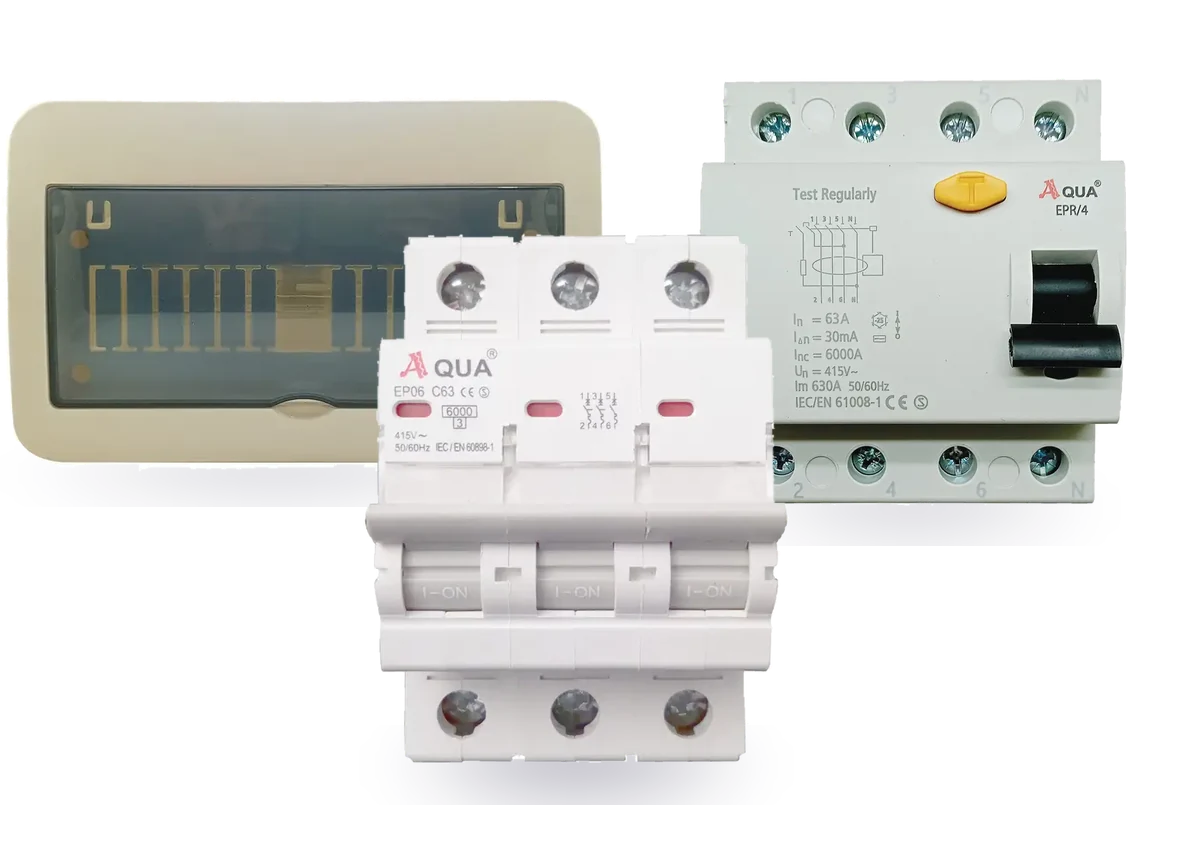
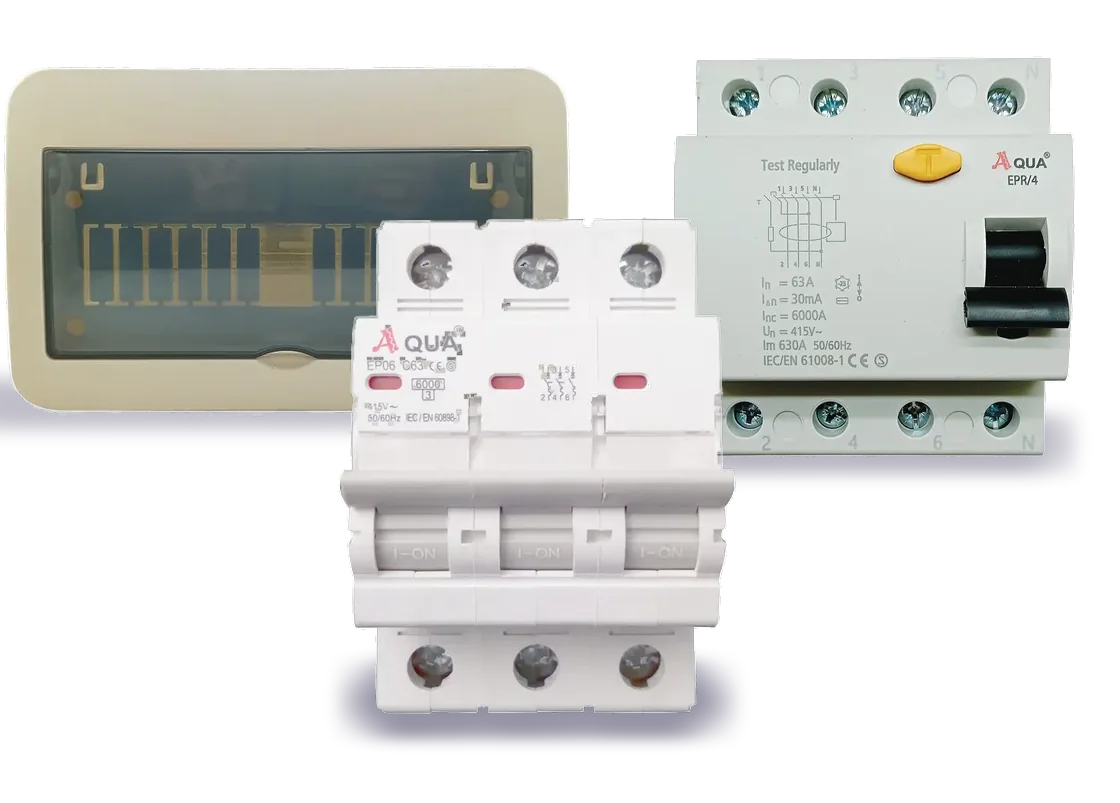
Refine homepage hero product compositions and image quality
The hero layout was fine; the cut-outs were not. Judged at true display size
and magnified, every composition had stair-stepped edges, a white rim on each
dark product, and shadows that were generic ellipses under a bounding box. The
fan slide was the worst - a heavy staircase along every blade.

Three causes, all in the build rather than the design. The matte was a hard
binary mask put through a morphological closing, which gives blocky aliased
edges a 0.7px blur cannot rescue. Edge pixels kept their observed colour, which
is a blend of product and white backdrop, so they glowed against the navy
panel. And PIL resizes colour and alpha independently, so the white sitting in
transparent areas bled into every edge on the way down - the largest single
contributor to the halo.

The matte is now soft: the backdrop is still found by a border-connected flood
fill, but the anti-aliased ring outside it takes fractional alpha from how far
each pixel sits from white. Those pixels are un-premultiplied against white to
recover the product's own colour, and all scaling happens in premultiplied
space. Shadows are derived from each product's own silhouette rather than an
ellipse, so a fan and a socket no longer sit on the same footprint.

Four products were replaced for quality, all verified items from the same
category. Lighting was using a 500x333 downlight and a 474x481 floodlight,
upscaled at hero size next to 800px neighbours; both are now 800px Aqua
[…]

Changed region(s): [[0.0, 0.0623, 0.5312, 0.5604], [0.5625, 0.0623, 0.9688, 0.5915], [0.2812, 0.8095, 0.6562, 0.934]]

diff --git a/css/pages.css b/css/pages.css
@@ -1191,16 +1191,25 @@
     display: -webkit-box; -webkit-line-clamp: 2; -webkit-box-orient: vertical; overflow: hidden;
   }
   .hs__cta .btn { flex: 1 1 auto; justify-content: center; }
-  /* min-height:0 gives the stage a definite height inside the 1fr row, which
-     is what lets the picture below resolve its own height against it. Without
-     it the composition grew to its natural size and covered the headline. */
+  /* The stage is a grid row of indefinite height, so a percentage height on
+     the picture resolves against the slide rather than the row and the
+     composition rendered at twice the space available, clipped by the banner.
+     The picture is positioned into the stage instead and contained, which
+     sizes against the row's used height. */
   .hs__stage {
     position: relative; right: auto; top: auto; bottom: auto;
-    width: 100%; height: 100%; min-height: 0;
-    padding: 0 var(--sp-4) var(--sp-3);
+    width: auto; min-height: 0; padding: 0;
+    margin: 0 var(--sp-4) var(--sp-3);
     align-self: stretch;
   }
-  .hs__art { height: 100%; width: auto; max-width: 92%; object-fit: contain; }
+  /* Sized explicitly rather than by auto: an absolutely positioned image with
+     width:auto falls back to its intrinsic 1200x860 and blew out of the
+     banner. The gutter is the stage's margin so inset:0 can stay simple. */
+  .hs__art {
+    position: absolute; inset: 0;
+    width: 100%; height: 100%; max-width: none; max-height: none;
+    object-fit: contain; object-position: center bottom;
+  }
   .hb__arrow { display: none; }
   /* The five labelled tabs do not fit: the navigator becomes the active
      campaign name with a progress line and dots for the rest. */

diff --git a/data/homepage-hero-redesign-audit.md b/data/homepage-hero-redesign-audit.md
@@ -245,3 +245,98 @@ supplier's shop rather than a slide.
 **Kept deliberately:** the global header and navigation, the department menu
 beside the banner (capped to 13 rows so the two columns finish together), the
 three promo tiles, and the white-stage category carousel below.
+
+---
+
+## 11. Hero image quality refinement — 2026-09-08
+
+The hero layout, height, structure, split composition, slide categories and
+integrated navigator were all kept. This pass fixed the **product imagery
+quality only**, which was the weak part of the first build.
+
+### What was actually wrong
+
+Judged by rendering each composition at its true display size (547 × 394 at a
+1440 viewport) over the real navy panel and light stage, then magnifying 3×.
+
+| Slide | Cut-out | Edges | Halo | Remnants | Shadow | Overlap | Scale | Product choice |
+|---|---|---|---|---|---|---|---|---|
+| Circuit Protection | binary | stair-stepped | white rim | none | generic ellipse | ok | ok | ok |
+| Wires & Cables | binary | stair-stepped | white rim | none | generic ellipse | ok | ok | ok |
+| Switches & Sockets | binary | stepped, worst on the black socket | thin white line along the top edge | none | generic ellipse | ok | ok | ok |
+| Lighting | binary | stair-stepped | white rim | none | generic ellipse | ok | **soft** | **2 of 3 low-resolution** |
+| Fans & Smart | binary | **worst — heavy staircase on every blade** | strong white rim | none | generic ellipse | **fan blade sliced across the switch face** | ok | **hero fan looked cheap** |
+
+Three root causes, all in the build script rather than the design:
+
+1. **A binary mask.** The matte was a hard 0/255 mask put through a
+   morphological closing. Closing on a hard mask produces blocky, aliased
+   edges, and the 0.7px blur afterwards was far too small to rescue them.
+2. **No colour decontamination.** An edge pixel is a blend of product and white
+   backdrop. Keeping its observed colour paints a white halo — which is exactly
+   what showed against the navy panel.
+3. **Straight-alpha resizing.** PIL resizes colour and alpha independently, so
+   the white sitting in fully transparent areas bled into every edge on the way
+   down. This was the single largest contributor to the halo.
+
+Two further problems were product selection, not masking: the Lighting slide
+used a 500 × 333 downlight and a 474 × 481 floodlight, both upscaled at hero
+size against 800px neighbours — visibly softer. And the gold-and-wood ceiling
+fan read as the cheapest thing on the page.
+
+### How each was fixed
+
+- **Soft matte.** The backdrop is still found by a border-connected flood fill
+  at a strict threshold, but the anti-aliased ring just outside it now receives
+  *fractional* alpha from how far each pixel sits from white. No morphology, no
+  hard mask.
+- **Decontamination.** Partially covered pixels are un-premultiplied against
+  white, recovering the product's own colour instead of a white-washed one.
+- **Premultiplied resizing.** Scaling happens in premultiplied space and is
+  un-premultiplied afterwards, so nothing bleeds in from transparent areas.
+- **Silhouette shadows.** The generic ellipse under each bounding box was
+  replaced with a shadow derived from the product's own alpha — squashed,
+  blurred and tucked under its base. A fan and a socket no longer sit on the
+  same footprint. Opacities were then raised, because the first pass was so
+  subtle the products read as floating.
+
+### Products replaced
+
+| Slide | Out | In | Why |
+|---|---|---|---|
+| Lighting | Coarts Alpha downlight (500 × 333) | Aqua COB downlight 18W (800 × 800) | source was being upscaled; the new one is sharp and shows the reflector |
+| Lighting | Coarts Astro G2 floodlight (474 × 481) | Aqua LED flood light 100W (800 × 800) | sharper, stronger silhouette, legible IP65 100W marking |
+| Fans & Smart | Wahid Ace 56" Versace (gold/wood) | Wahid Falcon Series AC/DC (black + gold) | the wooden fan looked cheap at hero scale; the Falcon has a far more premium silhouette |
+| Fans & Smart | Wahid Crystal inverter | Wahid Crystal Series AC/DC | cleaner angle for the back-left position over navy |
+
+All replacements are verified catalogue products from the same category.
+Nothing was generated, recoloured, re-badged or merged.
+
+**Composition fix:** on Fans & Smart the fan was moved left and down and the
+glass switch right and up, because a blade was cutting straight across the
+switch face.
+
+### Result
+
+Re-checked at true display size and magnified 3×: smooth anti-aliased edges, no
+white halo, no dark halo, no stair-stepping, no background fragments, no
+clipped detail. White products keep their contour against navy without a dirty
+grey outline; the black glass switches and the black-bladed fan keep a clean
+silhouette with no bright fringing.
+
+### Assets
+
+Canvas reduced from 1200 × 860 to **1120 × 803** — a 2× buffer for the 547px
+display size at a 1440 viewport and about 1.8× at 1920 — and WebP quality set
+to 84. That absorbs most of the cost of the sharper source products.
+
+| | Before | After |
+|---|---:|---:|
+| Five compositions | 399 KB | 475 KB |
+| LCP image (campaign 01) | 58 KB | 54 KB |
+
+Five files, same names, overwritten in place — no obsolete or duplicate hero
+assets. The stacked mobile hero also had its picture sizing corrected: a
+percentage height was resolving against the slide rather than the grid row, so
+the composition rendered at twice the space available and was clipped by the
+banner. It is now positioned into the stage and contained.
